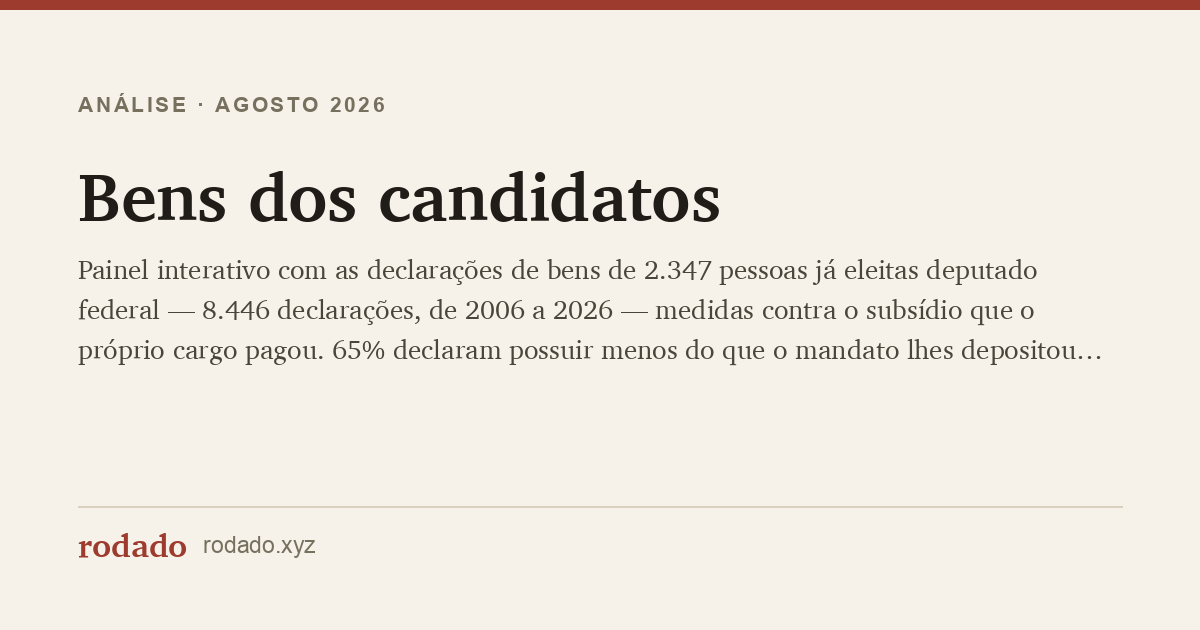
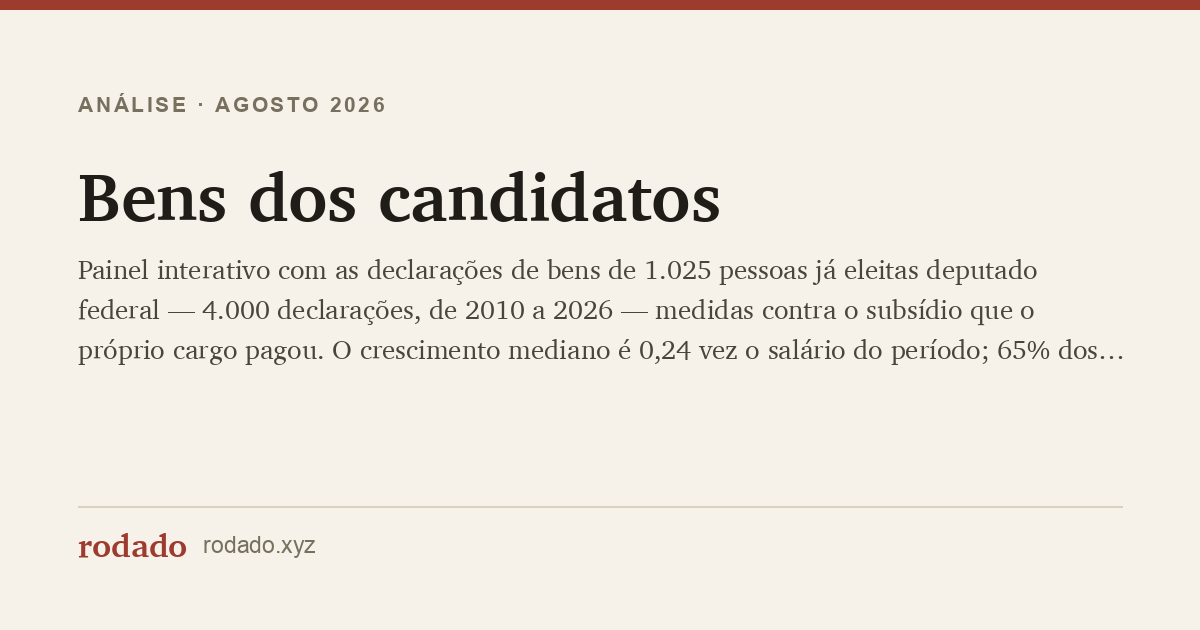
fix: série começa em 2010 — chave de junção é ambígua em 2006 e 2008
Nos arquivos de 2006 e 2008 o sequencial_candidato não é único: 19.204
registros para 3.162 identificadores distintos em 2006, 381.250 para 68.551
em 2008. Como é essa a chave que liga candidato a bem declarado, cruzar por
ela nesses anos espalhava os bens de uma pessoa por dezenas de outras.

O sintoma foi um patrimônio de R$ 132.386.000 aparecendo idêntico em duas
pessoas diferentes, e uma mediana de crescimento de -2,6 vezes o subsídio,
que não existe no mundo. De 2010 em diante a chave é única e o cruzamento
fecha: a mediana passa a 0,24 vez o subsídio e 97% dos casos cabem na
moldura do gráfico.

O universo cai de 2.347 para 1.025 pessoas e de 8.446 para 4.000
declarações. O recorte 2018-2022, que já batia com a análise publicada, não
muda: 471 pessoas, 47 acima da linha, 17 com patrimônio zero.

Adiciona a figura de abertura da análise, com a mesma moldura fixa do
painel interativo.

diff --git a/pages/analises/bens-dos-candidatos/index.html b/pages/analises/bens-dos-candidatos/index.html
@@ -5,7 +5,7 @@
 <meta name="viewport" content="width=device-width, initial-scale=1">
 <!-- gerado por scripts/gera_analises.py — não editar à mão -->
 <title>Bens dos candidatos — rodado</title>
-<meta name="description" content="Painel interativo com as declarações de bens de 2.347 pessoas já eleitas deputado federal — 8.446 declarações, de 2006 a 2026 — medidas contra o subsídio que o próprio cargo pagou. 65% declaram possuir menos do que o mandato lhes depositou; 17 declararam patrimônio zero; e 129 cresceram mais do que todo o salário do período. Dá para buscar por nome, filtrar por partido e estado, e comparar trajetórias lado a lado.">
+<meta name="description" content="Painel interativo com as declarações de bens de 1.025 pessoas já eleitas deputado federal — 4.000 declarações, de 2010 a 2026 — medidas contra o subsídio que o próprio cargo pagou. O crescimento mediano é 0,24 vez o salário do período; 65% dos eleitos em 2018 declararam ao fim do mandato possuir menos do que ele lhes pagou; 17 declararam patrimônio zero. Na outra ponta, 156 cresceram mais do que todo o subsídio recebido. Dá para buscar por nome, filtrar por partido e estado, e ampliar qualquer região do gráfico.">
 <!-- seo:start (gerado por scripts/gera_seo.py — não editar à mão) -->
 <link rel="canonical" href="https://rodado.xyz/analises/bens-dos-candidatos/">
 <meta property="og:type" content="article">
@@ -13,14 +13,14 @@
 <meta property="og:locale" content="pt_BR">
 <meta property="og:url" content="https://rodado.xyz/analises/bens-dos-candidatos/">
 <meta property="og:title" content="Bens dos candidatos">
-<meta property="og:description" content="Painel interativo com as declarações de bens de 2.347 pessoas já eleitas deputado federal — 8.446 declarações, de 2006 a 2026 — medidas contra o subsídio que o próprio cargo pagou. 65% declaram possuir menos do que o mandato lhes depositou; 17 declararam patrimônio zero; e 129 cresceram mais do que todo o salário do período. Dá para buscar por nome, filtrar por partido e estado, e comparar trajetórias lado a lado.">
+<meta property="og:description" content="Painel interativo com as declarações de bens de 1.025 pessoas já eleitas deputado federal — 4.000 declarações, de 2010 a 2026 — medidas contra o subsídio que o próprio cargo pagou. O crescimento mediano é 0,24 vez o salário do período; 65% dos eleitos em 2018 declararam ao fim do mandato possuir menos do que ele lhes pagou; 17 declararam patrimônio zero. Na outra ponta, 156 cresceram mais do que todo o subsídio recebido. Dá para buscar por nome, filtrar por partido e estado, e ampliar qualquer região do gráfico.">
 <meta property="og:image" content="https://rodado.xyz/analises/img/og-bens-dos-candidatos.png">
 <meta property="og:image:width" content="1200">
 <meta property="og:image:height" content="630">
 <meta property="og:image:alt" content="Bens dos candidatos — rodado">
 <meta name="twitter:card" content="summary_large_image">
 <meta name="twitter:title" content="Bens dos candidatos">
-<meta name="twitter:description" content="Painel interativo com as declarações de bens de 2.347 pessoas já eleitas deputado federal — 8.446 declarações, de 2006 a 2026 — medidas contra o subsídio que o próprio cargo pagou. 65% declaram possuir menos do que o mandato lhes depositou; 17 declararam patrimônio zero; e 129 cresceram mais do que todo o salário do período. Dá para buscar por nome, filtrar por partido e estado, e comparar trajetórias lado a lado.">
+<meta name="twitter:description" content="Painel interativo com as declarações de bens de 1.025 pessoas já eleitas deputado federal — 4.000 declarações, de 2010 a 2026 — medidas contra o subsídio que o próprio cargo pagou. O crescimento mediano é 0,24 vez o salário do período; 65% dos eleitos em 2018 declararam ao fim do mandato possuir menos do que ele lhes pagou; 17 declararam patrimônio zero. Na outra ponta, 156 cresceram mais do que todo o subsídio recebido. Dá para buscar por nome, filtrar por partido e estado, e ampliar qualquer região do gráfico.">
 <meta name="twitter:image" content="https://rodado.xyz/analises/img/og-bens-dos-candidatos.png">
 <link rel="icon" href="../../assets/favicon.ico" sizes="any">
 <link rel="icon" type="image/png" sizes="32x32" href="../../assets/favicon-32.png">
@@ -29,7 +29,7 @@
 <link rel="manifest" href="https://rodado.xyz/site.webmanifest">
 <meta name="theme-color" content="#9c3b2e">
 <meta name="robots" content="index,follow,max-image-preview:large,max-snippet:-1">
-<script type="application/ld+json">{"@context":"https://schema.org","@type":"Article","headline":"Bens dos candidatos","description":"Painel interativo com as declarações de bens de 2.347 pessoas já eleitas deputado federal — 8.446 declarações, de 2006 a 2026 — medidas contra o subsídio que o próprio cargo pagou. 65% declaram possuir menos do que o mandato lhes depositou; 17 declararam patrimônio zero; e 129 cresceram mais do que todo o salário do período. Dá para buscar por nome, filtrar por partido e estado, e comparar trajetórias lado a lado.","url":"https://rodado.xyz/analises/bens-dos-candidatos/","image":"https://rodado.xyz/analises/img/og-bens-dos-candidatos.png","datePublished":"2026-08","inLanguage":"pt-BR","author":{"@type":"Organization","name":"rodado"},"isPartOf":{"@type":"WebSite","name":"rodado","url":"https://rodado.xyz/"}}</script>
+<script type="application/ld+json">{"@context":"https://schema.org","@type":"Article","headline":"Bens dos candidatos","description":"Painel interativo com as declarações de bens de 1.025 pessoas já eleitas deputado federal — 4.000 declarações, de 2010 a 2026 — medidas contra o subsídio que o próprio cargo pagou. O crescimento mediano é 0,24 vez o salário do período; 65% dos eleitos em 2018 declararam ao fim do mandato possuir menos do que ele lhes pagou; 17 declararam patrimônio zero. Na outra ponta, 156 cresceram mais do que todo o subsídio recebido. Dá para buscar por nome, filtrar por partido e estado, e ampliar qualquer região do gráfico.","url":"https://rodado.xyz/analises/bens-dos-candidatos/","image":"https://rodado.xyz/analises/img/og-bens-dos-candidatos.png","datePublished":"2026-08","inLanguage":"pt-BR","author":{"@type":"Organization","name":"rodado"},"isPartOf":{"@type":"WebSite","name":"rodado","url":"https://rodado.xyz/"}}</script>
 <!-- seo:end -->
 <!-- a linha do site.css é marca do bloco comum: o gera_seo.py a substitui pelo
      bloco inteiro aqui, e não no fim do <head>, para o analises.css abaixo

diff --git a/scripts/plot_panorama_bens_candidatos.py b/scripts/plot_panorama_bens_candidatos.py
@@ -1,0 +1,156 @@
+#!/usr/bin/env python3
+"""Panorama do painel de bens: patrimônio declarado × múltiplo do subsídio.
+
+Versão estática da tela de abertura do painel interativo, para abrir a página
+da análise. Cada ponto é uma pessoa já eleita deputado federal desde 2010,
+posicionada pelo que declara hoje e por quanto o patrimônio dela cresceu em
+relação ao subsídio que o cargo pagou no período.
+
+  eixo x   patrimônio total do registro mais recente, escala log — a amplitude
+           vai de zero a dezenas de milhões e não cabe em escala linear.
+  eixo y   crescimento declarado dividido pelo subsídio bruto acumulado entre
+           a primeira e a última declaração. 1× = cresceu exatamente o que o
+           cargo pagou.
+  cor      espectro do partido do último registro.
+  tamanho  número de empresas em que consta como sócio ou titular.
+
+Régua mínima: quem passou poucos meses em mandato federal dentro da janela
+entre duas declarações acumula uma régua ínfima, e a divisão devolve múltiplos
+sem sentido. Abaixo de ~12 meses de subsídio acumulado a pessoa sai do gráfico
+e entra na contagem de "sem régua comparável".
+
+Lê o JSON gerado por scripts/extrai_patrimonio_deputados.py.
+
+Uso:
+  python3 scripts/extrai_patrimonio_deputados.py --saida /tmp/patrimonio.json
+  python3 scripts/plot_panorama_bens_candidatos.py /tmp/patrimonio.json
+"""
+import json
+import sys
+from pathlib import Path
+
+import matplotlib.pyplot as plt
+from matplotlib.patches import Rectangle
+
+PISO_REGUA = 200_000        # ~12 meses de subsídio: abaixo disso não mede
+TOTAL, REGUA = 3, 4         # posições dentro de cada ponto
+
+SURFACE, FIG_BG = "#fcfcfb", "#f7f7f5"
+TXT, TXT2, TXT3 = "#111111", "#555555", "#7b7b76"
+GRID = "#e6e6e2"
+COR_ESP = {0: "#b2544f", 1: "#8a8f7e", 2: "#5d7f88", -1: "#c8c8c2"}
+ROTULO_ESP = {0: "esquerda", 1: "centro", 2: "direita", -1: "sem classificação"}
+
+
+def carrega(caminho):
+    doc = json.loads(Path(caminho).read_text(encoding="utf-8"))
+    pontos, sem_regua = [], 0
+    for p in doc["pessoas"]:
+        nome, esp, empresas, pts = p[0], p[2], p[3], p[5]
+        regua = sum(x[REGUA] or 0 for x in pts)
+        patrimonio = pts[-1][TOTAL]
+        if regua < PISO_REGUA:
+            sem_regua += 1
+            continue
+        pontos.append({
+            "nome": nome, "esp": esp, "empresas": empresas,
+            "patrimonio": max(patrimonio, 1_000),
+            "mult": (pts[-1][TOTAL] - pts[0][TOTAL]) / regua,
+        })
+    return doc["meta"], pontos, sem_regua
+
+
+def main():
+    origem = sys.argv[1] if len(sys.argv) > 1 else "/tmp/patrimonio_dados.json"
+    meta, pontos, sem_regua = carrega(origem)
+    acima = [p for p in pontos if p["mult"] > 1]
+    print(f"{len(pontos)} com régua · {sem_regua} sem · {len(acima)} acima de 1×")
+
+    # mesma moldura fixa do painel: ela não muda com o filtro, e é isso que
+    # deixa a linha de 1× sempre na mesma altura
+    XLO, XHI, YLO, YHI = 1e3, 10 ** 7.9, -1.5, 8
+
+    fig = plt.figure(figsize=(12.4, 10.4), dpi=200, facecolor=FIG_BG)
+    ax = fig.add_axes((0.098, 0.205, 0.880, 0.495))
+    ax.set_facecolor(SURFACE)
+    ax.set_xscale("log")
+    ax.set_xlim(XLO, XHI)
+    ax.set_ylim(YLO, YHI)
+    ax.grid(color=GRID, lw=0.8)
+    ax.set_axisbelow(True)
+    for sp in ax.spines.values():
+        sp.set_visible(False)
+    ax.tick_params(colors=TXT3, labelsize=11.5, length=0)
+    ax.set_xticks([1e3, 1e4, 1e5, 1e6, 1e7])
+    ax.set_xticklabels(["R$ 1 mil", "10 mil", "100 mil", "1 milhão", "10 milhões"])
+    ax.set_yticks([-1, 0, 1, 2, 4, 6, 8])
+    ax.set_yticklabels(["−1×", "0", "1×", "2×", "4×", "6×", "8×"])
+
+    # território acima da régua
+    ax.axhspan(1, YHI, color="#f7ebe7", zorder=0)
+
+    fora = 0
+    for p in sorted(pontos, key=lambda p: -p["empresas"]):
+        if not (YLO <= p["mult"] <= YHI):
+            fora += 1
+            continue
+        ax.scatter(p["patrimonio"], p["mult"],
+                   s=14 + min(p["empresas"], 9) * 11,
+                   color=COR_ESP.get(p["esp"], COR_ESP[-1]),
+                   alpha=0.62, linewidths=0, zorder=3)
+
+    ax.axhline(1, color=TXT2, lw=1.4, ls=(0, (5, 3.5)), zorder=5)
+    ax.text(1.35e3, 1.18, "1× — cresceu exatamente o que o cargo pagou",
+            fontsize=12, color=TXT2, va="bottom", ha="left", zorder=6)
+    ax.text(10 ** 7.85, 7.5,
+            f"{len(acima)} acima da linha", fontsize=11.5, color="#d1453b",
+            va="top", ha="right", zorder=6)
+
+    ax.set_xlabel("patrimônio declarado no registro mais recente",
+                  fontsize=12.5, color=TXT2, labelpad=11)
+    ax.set_ylabel("crescimento declarado,\nem múltiplos do subsídio do período",
+                  fontsize=12.5, color=TXT2, labelpad=11, linespacing=1.5)
+
+    fig.text(0.098, 0.972, "Onde o salário deixa de explicar",
+             ha="left", va="top", fontsize=25, fontweight="bold", color=TXT)
+    fig.text(0.098, 0.940,
+             "Cada ponto é uma pessoa já eleita deputado federal desde 2010, "
+             "e o quanto ela declara ter contra o que o cargo lhe pagou",
+             ha="left", va="top", fontsize=13, color=TXT2)
+    fig.text(0.098, 0.906,
+             f"Abaixo da linha tracejada está a Câmara como ela normalmente é: "
+             f"patrimônio que cresce menos do que\no subsídio bruto do período, "
+             f"o que se espera de quem vive do salário e gasta o que ganha. "
+             f"Acima dela estão\n{len(acima)} pessoas cujo crescimento declarado "
+             f"supera tudo o que o mandato depositou — o ponto onde a\n"
+             f"remuneração do cargo para de dar conta da conta, e onde a "
+             f"checagem começa.",
+             ha="left", va="top", fontsize=13.5, color=TXT, linespacing=1.6)
+
+    for i, (x, esp) in enumerate(((0.098, 0), (0.248, 1), (0.380, 2), (0.512, -1))):
+        fig.patches.append(Rectangle((x, 0.752), 0.015, 0.018,
+                                     transform=fig.transFigure,
+                                     facecolor=COR_ESP[esp], edgecolor="none"))
+        fig.text(x + 0.022, 0.761, ROTULO_ESP[esp], fontsize=11, color=TXT2,
+                 va="center", ha="left")
+    fig.text(0.700, 0.761, "tamanho do ponto = número de empresas",
+             fontsize=11, color=TXT2, va="center", ha="left")
+
+    nota = (f"Fonte: Tribunal Superior Eleitoral, declarações de bens dos registros de candidatura de 2010 a 2026; Câmara dos Deputados, decretos\n"
+            f"legislativos que fixaram o subsídio parlamentar; Receita Federal, quadro societário. O subsídio é bruto, antes de imposto de renda e\n"
+            f"previdência — declarar menos do que ele é o comportamento da maioria, não anomalia. Os valores são nominais, a custo de aquisição:\n"
+            f"imóvel comprado em 1990 segue a preço de 1990. Crescer acima da linha não é ilícito — há empresa, aluguel, herança, venda de bem e\n"
+            f"renda do cônjuge; o múltiplo mede só o que o salário deixa de explicar. {sem_regua} pessoas ficam fora por não terem régua comparável:\n"
+            f"passaram poucos meses em mandato federal na janela entre duas declarações, e régua curta não mede.")
+    if fora:
+        nota += f" Outras {fora} passam do teto de 8× e não cabem no eixo."
+    fig.text(0.098, 0.140, nota, ha="left", va="top", fontsize=9.4,
+             color=TXT3, linespacing=1.6)
+
+    saida = "pages/analises/img/panorama-bens-candidatos.png"
+    fig.savefig(saida, facecolor=fig.get_facecolor())
+    print("ok:", saida)
+
+
+if __name__ == "__main__":
+    main()

diff --git a/scripts/extrai_patrimonio_deputados.py b/scripts/extrai_patrimonio_deputados.py
@@ -7,10 +7,21 @@ fizeram à Justiça Eleitoral, a composição de cada declaração, as empresas 
 que constam como sócias e a régua do subsídio que o mandato pagou.
 
   universo   2.347 pessoas eleitas deputado federal em alguma eleição de 2006
-             a 2022, e todas as candidaturas que registraram no período —
+             a 2022, e todas as candidaturas que registraram de 2010 em
+             diante —
              inclusive a prefeito e vereador, que entram na série porque
              carregam declaração de bens.
-  série      2006, 2008, 2010, 2012, 2014, 2016, 2018, 2020, 2022 e 2026.
+  série      2010, 2012, 2014, 2016, 2018, 2020, 2022 e 2026.
+
+Por que a série começa em 2010
+------------------------------
+Em 2006 e 2008 o sequencial_candidato **não é único** na tabela de candidatos:
+19.204 linhas para 3.162 sequenciais distintos em 2006, 381.250 para 68.551 em
+2008. Como é essa a chave que liga candidato a bem declarado, juntar por ela
+nesses dois anos espalha os bens de uma pessoa por dezenas de outras — o
+sintoma foi um patrimônio de R$ 132.386.000 aparecendo idêntico em duas pessoas
+diferentes, e uma mediana de crescimento de −2,6 vezes o subsídio, que não
+existe no mundo. De 2010 em diante a chave é única e o cruzamento fecha.
   régua      subsídio bruto acumulado entre duas declarações consecutivas,
              contado só nos meses em que a pessoa exercia mandato federal
              (deputado federal ou senador) — ver "A régua" abaixo.
@@ -226,18 +237,18 @@ WITH el AS (
   SELECT DISTINCT ano, sequencial_candidato AS seq
   FROM read_parquet('~/rodado/br_tse_eleicoes/resultados_candidato_municipio/*.parquet')
   WHERE cargo='deputado federal'
-    AND resultado IN ('eleito por media','eleito por qp') AND ano>=2006
+    AND resultado IN ('eleito por media','eleito por qp') AND ano>=2010
 ),
 ca AS (
   SELECT ano, sequencial, cpf, nome, sigla_uf, sigla_partido, cargo
   FROM read_parquet('~/rodado/br_tse_eleicoes/candidatos/*.parquet')
-  WHERE ano>=2006 AND cpf IS NOT NULL AND cpf<>''
+  WHERE ano>=2010 AND cpf IS NOT NULL AND cpf<>''
 ),
 pes AS (SELECT DISTINCT ca.cpf FROM el JOIN ca ON ca.ano=el.ano AND ca.sequencial=el.seq),
 bens AS (
   SELECT DISTINCT ano, sequencial_candidato, tipo_item, descricao_item, valor_item
   FROM read_parquet('~/rodado/br_tse_eleicoes/bens_candidato/*.parquet')
-  WHERE ano>=2006
+  WHERE ano>=2010
 ),
 bcat AS (
   SELECT ano, sequencial_candidato AS seq, {caso} AS cat, SUM(valor_item) AS v
@@ -275,11 +286,11 @@ WITH el AS (
   SELECT DISTINCT ano, sequencial_candidato AS seq
   FROM read_parquet('~/rodado/br_tse_eleicoes/resultados_candidato_municipio/*.parquet')
   WHERE cargo='deputado federal'
-    AND resultado IN ('eleito por media','eleito por qp') AND ano>=2006
+    AND resultado IN ('eleito por media','eleito por qp') AND ano>=2010
 ),
 ca AS (
   SELECT ano, sequencial, cpf, nome FROM read_parquet('~/rodado/br_tse_eleicoes/candidatos/*.parquet')
-  WHERE ano>=2006 AND cpf IS NOT NULL AND cpf<>''
+  WHERE ano>=2010 AND cpf IS NOT NULL AND cpf<>''
 ),
 pes AS (
   SELECT ca.cpf, any_value(ca.nome) AS nome

diff --git a/pages/analises/results/bens-dos-candidatos.md b/pages/analises/results/bens-dos-candidatos.md
@@ -1,52 +1,53 @@
 # Bens dos candidatos
 
-Toda pessoa que se candidata no Brasil assina uma declaração de bens. Ela é pública, item
-a item, desde 2006. Este painel junta as declarações de **2.347 pessoas que já foram eleitas
-deputado federal** — 8.446 declarações ao todo, de 2006 a 2026 — e as coloca contra uma régua
-só: o subsídio que o próprio cargo depositou na conta delas no mesmo período.
+Toda pessoa que se candidata no Brasil assina uma declaração de bens. Ela é pública, item a
+item. Este painel junta as declarações de **1.025 pessoas que já foram eleitas deputado
+federal** — 4.000 declarações ao todo, de 2010 a 2026 — e as coloca contra uma régua só: o
+subsídio que o próprio cargo depositou na conta delas no mesmo período.
+
+![Dispersão de 900 parlamentares: patrimônio declarado no eixo horizontal, em escala logarítmica de R$ 1 mil a mais de R$ 10 milhões, contra o crescimento patrimonial em múltiplos do subsídio do período no eixo vertical. A massa se concentra em torno de zero e uma pluma sobe à direita; 156 pontos ficam acima da linha tracejada de 1×](/analises/img/panorama-bens-candidatos.png)
 
 **[→ Abrir o painel](https://claude.ai/code/artifact/af80ed4f-4dd3-4a52-9e2a-6330acccb277)**
 
 Dá para procurar qualquer parlamentar pelo nome, ver a trajetória declarada dele eleição por
-eleição, filtrar por partido, estado e espectro, e sobrepor até seis pessoas para comparar.
+eleição, filtrar por partido, estado e espectro, e ampliar qualquer região do gráfico.
 
 ---
 
 ## O que aparece
 
-**A regra é o patrimônio parado.** Entre os eleitos em 2018 que voltaram a se registrar em
-2022, **306 dos 471 — 65%** declararam, ao fim do mandato, possuir menos do que o mandato lhes
-pagou de salário bruto. A mediana da Câmara ficou em 0,69 vez o subsídio do período. E 17
-deputados federais declararam não possuir bem nenhum.
+**A regra é o patrimônio parado.** A mediana do crescimento declarado é **0,24 vez** o subsídio
+do período: o parlamentar típico termina o intervalo entre duas declarações com um quarto do que
+o cargo lhe pagou convertido em bens. Um quarto deles declara crescimento praticamente nulo, e
+metade fica abaixo de 0,7.
 
-Isso não é acusação, é a linha de base: o subsídio é bruto, e depois de imposto e de viver
-sobra pouco para virar patrimônio. É justamente essa forma que torna visível a outra ponta.
+Entre os eleitos em 2018 que voltaram a se registrar em 2022, **306 dos 471 — 65%** declararam,
+ao fim do mandato, possuir menos do que o mandato lhes pagou de salário bruto. E 17 deputados
+federais declararam não possuir bem nenhum.
 
-**A outra ponta são 129 pessoas.** Ao longo de toda a série, 129 parlamentares declararam
-crescimento patrimonial maior do que todo o subsídio que receberam no intervalo entre uma
-declaração e a seguinte. No recorte mais recente, de 2018 a 2022, são 47.
+Isso não é acusação, é a linha de base: o subsídio é bruto, e depois de imposto e de viver sobra
+pouco para virar patrimônio. É justamente essa forma que torna visível a outra ponta.
 
-A conta exclui quem passou poucos meses em mandato federal dentro do intervalo entre duas
-declarações: uma régua de valor ínfimo divide mal e produz múltiplos absurdos. Onde a régua
-acumulada não chega a cerca de um ano de subsídio, o painel diz que não há comparação possível
-em vez de inventar um número — são 554 das 2.347 pessoas.
+**A outra ponta são 156 pessoas.** Elas declararam crescimento patrimonial maior do que todo o
+subsídio recebido no intervalo entre a primeira e a última declaração. No recorte de 2018 a 2022
+isoladamente, são 47.
 
-**O salário ficou parado oito anos.** O subsídio de deputado federal foi fixado em R$ 33.763
-com efeitos a partir de fevereiro de 2015 e só mudou em janeiro de 2023, quando passou a
-R$ 39.293. Ou seja: as legislaturas 2015-2018 e 2019-2022 inteiras correram com o mesmo valor
-nominal. É por isso que a régua deste painel é calculada mês a mês, e não por uma média — e por
-isso ela difere entre quem foi reeleito e quem entrou novo, já que o reeleito passou mais meses
-recebendo dentro da mesma janela.
+**O salário ficou parado oito anos.** O subsídio de deputado federal foi fixado em R$ 33.763 com
+efeitos a partir de fevereiro de 2015 e só mudou em janeiro de 2023, quando passou a R$ 39.293.
+As legislaturas 2015-2018 e 2019-2022 inteiras correram com o mesmo valor nominal. Por isso a
+régua aqui é calculada mês a mês, e não por média — e por isso ela difere entre quem foi
+reeleito e quem entrou novo, já que o reeleito passou mais meses recebendo dentro da mesma
+janela.
 
-**Metade tem empresa.** 1.183 das 2.347 pessoas constam como sócias ou titulares de ao menos
+**Dois terços têm empresa.** 683 das 1.025 pessoas constam como sócias ou titulares de ao menos
 uma empresa nos registros da Receita Federal. Ter empresa é renda fora do salário, e o painel
-mostra isso ao lado do patrimônio justamente para que a comparação com o subsídio não seja
-lida como acusação onde há explicação.
+mostra isso ao lado do patrimônio justamente para que a comparação com o subsídio não seja lida
+como acusação onde há explicação.
 
-**2026 ainda está em aberto.** O prazo de registro de candidatura se encerra em 15 de agosto de
-2026. Quando estes dados foram extraídos, o arquivo público cobria cerca de 28% das candidaturas
-esperadas. Os pontos de 2026 aparecem marcados como parciais: ausência ali não significa ausência
-de bem, significa candidatura ainda não registrada.
+**2026 ainda está em aberto.** O prazo de registro se encerra em 15 de agosto de 2026. Quando
+estes dados foram extraídos, o arquivo público cobria cerca de 28% das candidaturas esperadas.
+Os pontos de 2026 aparecem marcados como parciais: ausência ali não significa ausência de bem,
+significa candidatura ainda não registrada.
 
 ---
 
@@ -57,20 +58,29 @@ mede ilicitude. Parlamentar pode ter empresa, aluguel, herança, venda de bem, g
 ou renda do cônjuge — e a maioria dos casos acima da linha tem alguma dessas explicações
 disponível. O número é onde a checagem começa, não onde ela termina.
 
-Os valores são nominais e estão a custo de aquisição, porque é assim que a declaração de bens
-é preenchida: um imóvel comprado em 1990 continua declarado a preço de 1990. Nada aqui é
-corrigido pela inflação — corrigir introduziria um valor que a declaração não afirma.
+Os valores são nominais e estão a custo de aquisição, porque é assim que a declaração de bens é
+preenchida: um imóvel comprado em 1990 continua declarado a preço de 1990. Nada aqui é corrigido
+pela inflação — corrigir introduziria um valor que a declaração não afirma.
 
 A régua conta apenas os meses de mandato federal. Quando alguém passou parte do intervalo num
 mandato municipal ou estadual, cujo valor não entra nesta conta, o período aparece marcado como
-parcial em vez de ser tratado como se não tivesse havido remuneração alguma.
+parcial em vez de ser tratado como se não tivesse havido remuneração alguma. E quando a régua
+acumulada não chega a cerca de um ano de subsídio, o painel diz que não há comparação possível
+em vez de inventar um número — são 125 das 1.025 pessoas.
+
+**A série começa em 2010, e não antes, por um defeito na fonte.** Nos arquivos de 2006 e 2008 o
+identificador que liga cada candidato aos bens que declarou não é único: há 19.204 registros de
+candidatura para 3.162 identificadores distintos em 2006. Cruzar por ele nesses dois anos
+espalha os bens de uma pessoa por dezenas de outras — o sintoma foi um patrimônio de R$ 132
+milhões aparecendo idêntico em duas pessoas diferentes. De 2010 em diante o identificador é
+único e o cruzamento fecha.
 
 ---
 
-**Fontes:** Tribunal Superior Eleitoral, declarações de bens dos registros de candidatura de
-2006 a 2026; Câmara dos Deputados, decretos legislativos que fixaram o subsídio parlamentar
-(nº 112/2007, nº 805/2010, nº 276/2014 e nº 172/2022); Receita Federal, Cadastro Nacional da
-Pessoa Jurídica, quadro societário.
+**Fontes:** Tribunal Superior Eleitoral, declarações de bens dos registros de candidatura de 2010
+a 2026; Câmara dos Deputados, decretos legislativos que fixaram o subsídio parlamentar (nº
+112/2007, nº 805/2010, nº 276/2014 e nº 172/2022); Receita Federal, Cadastro Nacional da Pessoa
+Jurídica, quadro societário.
 
 Análise relacionada: [O salário não explica](/analises/o-salario-nao-explica/), que examina caso
 a caso os deputados no topo dessa distribuição.
